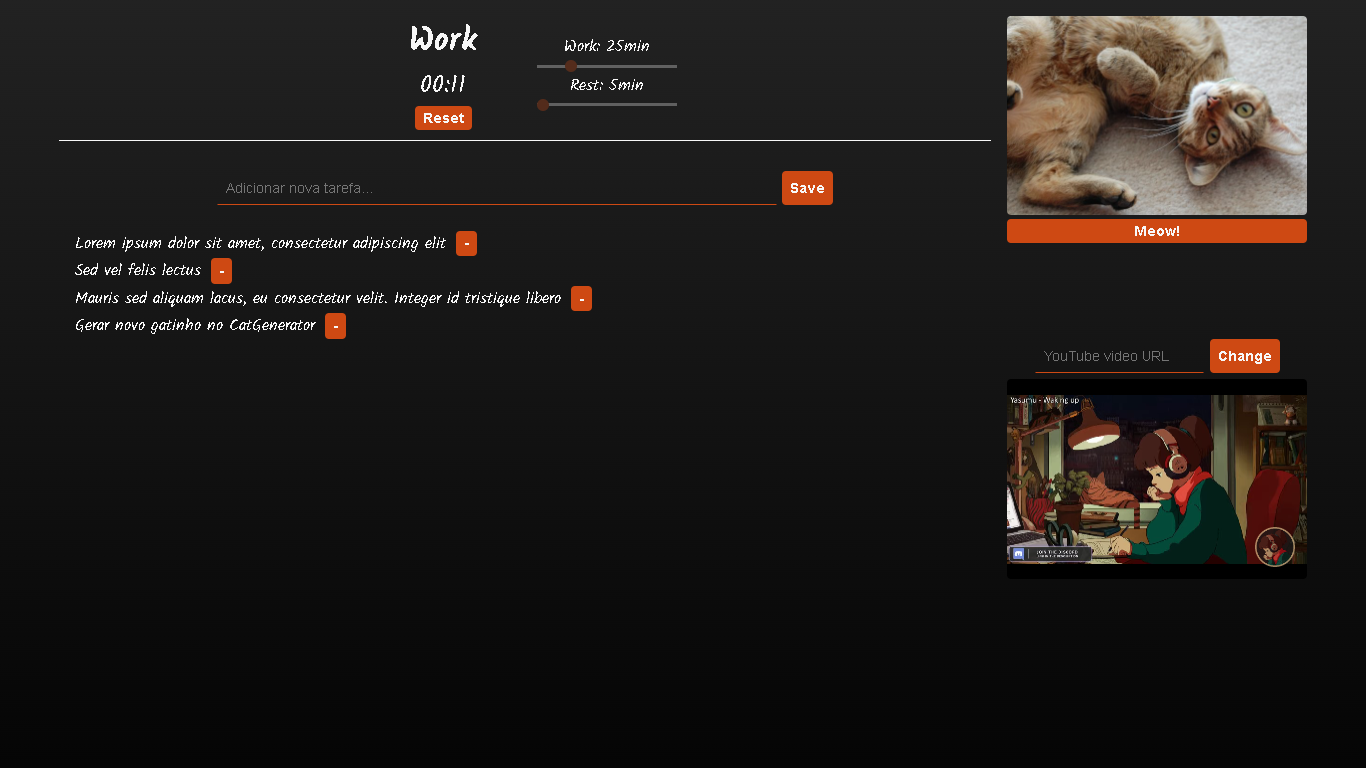
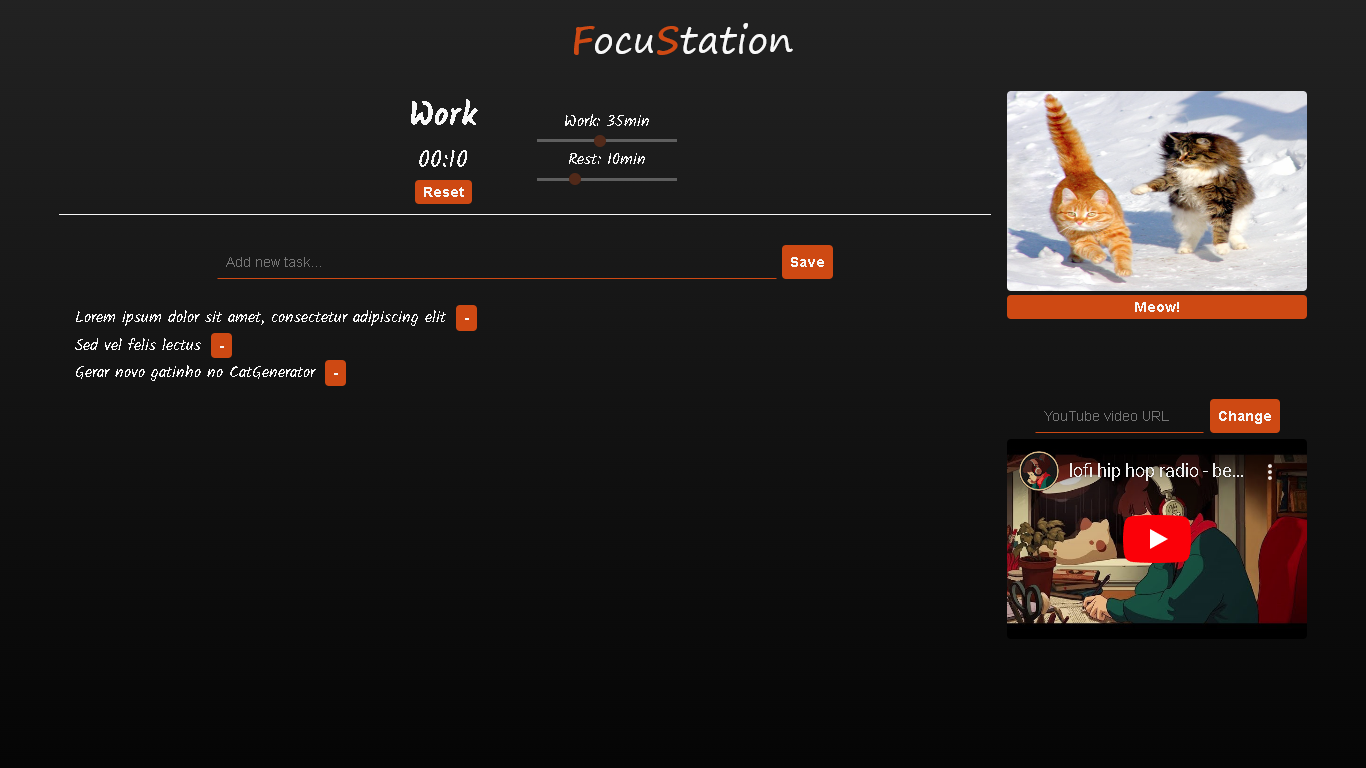
Add header, ajustes layout e funcionalidades

diff --git a/src/views/HomeView.vue b/src/views/HomeView.vue
@@ -4,6 +4,9 @@
 -->
 <template>
   <div class="grid-container">
+    <div class="header-item">
+      <Header />
+    </div>
     <div class="left-item">
       <Timer />
       <ScheduleList />
@@ -13,13 +16,16 @@
       <Video />
     </div>
   </div>
+  <ReturnTopBtn />
 </template>
 
 <script setup>
+import Header from '../components/Header.vue'
 import Video from '../components/Video.vue'
 import CatGenerator from '../components/CatGenerator.vue'
 import ScheduleList from '../components/ScheduleList.vue'
 import Timer from '../components/Timer.vue'
+import ReturnTopBtn from '../components/ReturnTopBtn.vue'
 </script>
 
 <style scoped>
@@ -27,17 +33,23 @@ import Timer from '../components/Timer.vue'
   display: grid;
   grid-auto-flow: dense;
   grid-template-columns: 1fr;
-  grid-template-areas: 'esquerda direita';
+  grid-template-areas:
+    'cima cima'
+    'esquerda direita';
   justify-items: center;
   gap: 1rem;
   height: 100%;
 }
 
+.header-item {
+  grid-area: cima;
+}
+
 .right-item {
   display: flex;
   flex-direction: column;
-  justify-content: space-around;
-  row-gap: 6rem;
+  justify-content: start;
+  row-gap: 5rem;
   grid-area: direita;
 }
 
@@ -50,15 +62,32 @@ import Timer from '../components/Timer.vue'
   grid-area: esquerda;
 }
 
+.up-arrow {
+  position: fixed;
+  bottom: 30px;
+  right: 30px;
+  background-color: #d14f04;
+  width: 40px;
+  height: 40px;
+  border-radius: 50%;
+
+  visibility: hidden;
+}
+
 @media (max-width: 850px) {
   .grid-container {
     grid-template-areas:
+      'cima'
       'esquerda'
       'direita';
   }
   .right-item {
     row-gap: 1rem;
     flex-direction: column-reverse;
+  }
+
+  .up-arrow {
+    visibility: visible;
   }
 }
 </style>

diff --git a/src/components/Video.vue b/src/components/Video.vue
@@ -6,10 +6,15 @@
 <template>
   <div class="container">
     <div class="inputBox">
-      <Input type="text" v-model="newVideoUrl" placeholder="YouTube video URL" />
+      <Input
+        type="text"
+        v-model="newVideoUrl"
+        @on-press-enter="updateVideo"
+        placeholder="YouTube video URL"
+      />
       <Button title="Change" @click-function="updateVideo" />
     </div>
-    <iframe :src="videoUrl" width="300" height="200" frameborder="0"></iframe>
+    <iframe :src="videoUrl" frameborder="0"></iframe>
   </div>
 </template>
 
@@ -35,6 +40,7 @@ function updateVideo() {
     const videoId = getVideoId()
     videoUrl.value = `https://www.youtube-nocookie.com/embed/${videoId}`
     localStorage.setItem('videoUrl', videoUrl.value)
+    newVideoUrl.value = ''
   } catch (error) {
     alert('Url inválida!')
   }
@@ -58,6 +64,8 @@ function updateVideo() {
 }
 
 iframe {
+  width: 300px;
+  height: 200px;
   border-radius: 4px;
 }
 </style>

diff --git a/src/components/CatGenerator.vue b/src/components/CatGenerator.vue
@@ -5,7 +5,8 @@
  -->
 <template>
   <div class="cat-container">
-    <img class="cat-img" :src="catUrl.file" />
+    <img v-if="catUrl == 'error'" class="cat-img" src="./imgs/cat-error.png" />
+    <img v-else class="cat-img" :src="catUrl.file" />
     <Button title="Meow!" @click-function="getCat"></Button>
   </div>
 </template>
@@ -25,6 +26,7 @@ const getCat = async () => {
     const response = await fetch('https://aws.random.cat/meow')
     catUrl.value = await response.json()
   } catch (error) {
+    catUrl.value = 'error'
     console.log('Algo errado ocorreu: ' + error)
   }
 }
@@ -40,7 +42,7 @@ const getCat = async () => {
 
 .cat-img {
   max-width: 300px;
-  max-height: 200px;
+  height: 200px;
   border-radius: 4px;
 }
 

diff --git a/src/components/ReturnTopBtn.vue b/src/components/ReturnTopBtn.vue
@@ -1,0 +1,28 @@
+<!--
+    Botão de retorno para o topo da pagina, caso a tela seja menor do que 850px.
+-->
+<template>
+  <a class="up-arrow" href="#top"
+    ><img src="../components/icons/up-arrow.png" width="40" height="40" alt="up-arrow"
+  /></a>
+</template>
+
+<style scoped>
+.up-arrow {
+  position: fixed;
+  bottom: 30px;
+  right: 30px;
+  background-color: #d14f04;
+  width: 40px;
+  height: 40px;
+  border-radius: 50%;
+
+  visibility: hidden;
+}
+
+@media (max-width: 850px) {
+  .up-arrow {
+    visibility: visible;
+  }
+}
+</style>

diff --git a/src/components/Input.vue b/src/components/Input.vue
@@ -4,12 +4,16 @@
   - armazenar o valor inserido no input.
  -->
 <template>
-  <input :value="modelValue" @input="$emit('update:modelValue', $event.target.value)" />
+  <input
+    :value="modelValue"
+    @keydown.enter="$emit('on-press-enter')"
+    @input="$emit('update:modelValue', $event.target.value)"
+  />
 </template>
 
 <script setup>
 defineProps(['modelValue'])
-defineEmits(['update:modelValue'])
+defineEmits(['update:modelValue', 'on-press-enter'])
 </script>
 
 <style scoped>

diff --git a/src/components/Timer.vue b/src/components/Timer.vue
@@ -9,11 +9,7 @@
     <div class="timer-container">
       <h1>{{ timerTitle }}</h1>
       <p>{{ formattedTime }}</p>
-      <Button
-        v-if="!isTimerRunning && !isRestRunning"
-        title="Start"
-        @click-function="startTimer"
-      />
+      <Button v-if="!isTimerRunning && !isRestRunning" title="Start" @click-function="startTimer" />
       <Button v-if="isTimerRunning || isRestRunning" title="Reset" @click-function="resetTimer" />
     </div>
 

diff --git a/src/components/ScheduleList.vue b/src/components/ScheduleList.vue
@@ -6,7 +6,12 @@
 <template>
   <div class="schedule-list-container">
     <div class="input-container">
-      <Input type="text" v-model="newSchedule" placeholder="Adicionar nova tarefa..." />
+      <Input
+        type="text"
+        v-model="newSchedule"
+        @on-press-enter="saveSchedule"
+        placeholder="Add new task..."
+      />
       <Button title="Save" @click-function="saveSchedule" />
     </div>
     <div class="list-area">

diff --git a/index.html b/index.html
@@ -4,7 +4,7 @@
     <meta charset="UTF-8">
     <link rel="icon" href="/favicon.ico">
     <meta name="viewport" content="width=device-width, initial-scale=1.0">
-    <title>Focus App</title>
+    <title>FocuStation</title>
   </head>
   <body>
     <div id="app"></div>

diff --git a/src/components/Header.vue b/src/components/Header.vue
@@ -1,0 +1,6 @@
+<!--
+    Componente Header. Enquanto o projeto não escalar, retorna apenas o logo do site.
+-->
+<template>
+  <img src="../components/imgs/page-logo.png" />
+</template>
